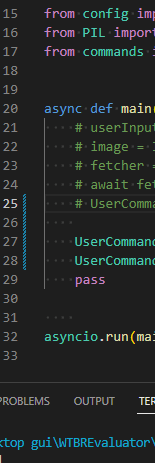
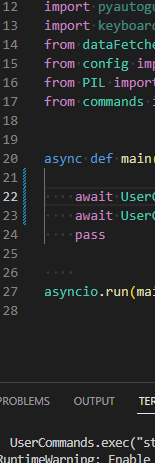
fixed asynchronicity handling

diff --git a/commands.py b/commands.py
@@ -3,7 +3,7 @@ from dataFetcher import DataFetcher
 from config import getConfig, setConfig, setConfigVal
 import pyautogui
 from collections import deque
-from inspect import signature
+from inspect import signature, iscoroutinefunction
 
 class UserCommands:
 
@@ -83,7 +83,7 @@ class UserCommands:
     }
 
     @staticmethod
-    def exec(inputCmd):
+    async def exec(inputCmd):
         inputCmd = inputCmd.strip()
         args = deque(inputCmd.split(' '))
         inputCmd = args.popleft()
@@ -110,6 +110,8 @@ class UserCommands:
             if(funcArgsNum < len(args)):
                 print(f"This command accepts a maximum of {funcArgsNum} parameters, while you provided {len(args)}. Behave yourself!")
                 return False
+            elif iscoroutinefunction(func):
+                await func(*args)
             else:
                 func(*args)
             return True

diff --git a/index.py b/index.py
@@ -18,9 +18,9 @@ from commands import UserCommands
 
 
 async def main():
-        
-    UserCommands.exec("stest opencc")
-    UserCommands.exec("setconfigval googleApiKey yourmomma")
+
+    await UserCommands.exec("stest open")
+    await UserCommands.exec("setconfigval googleApiKey yourmomma")
     pass
 
     

diff --git a/config.py b/config.py
@@ -27,4 +27,5 @@ def setConfig(newConfig: dict):
 def setConfigVal(key, value):
     config = getConfig()
     config[key] = value
+    print(config)
     setConfig(config)
